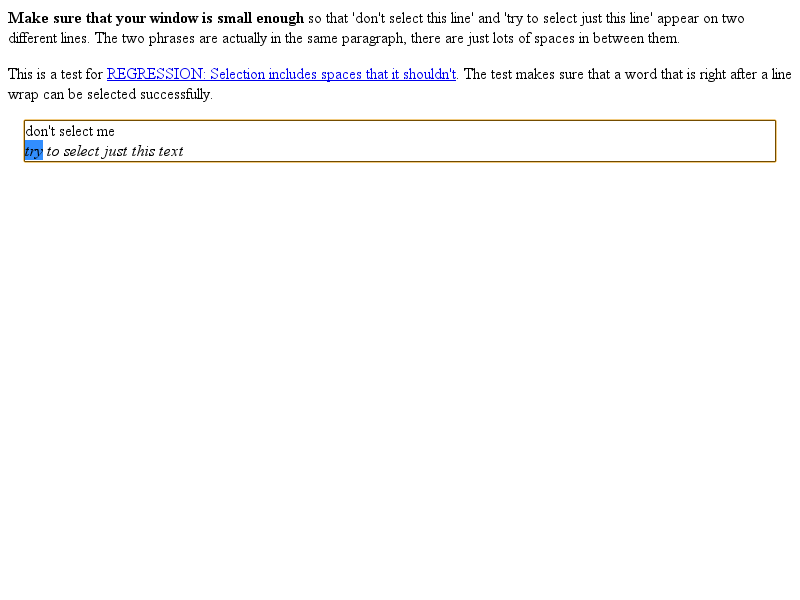
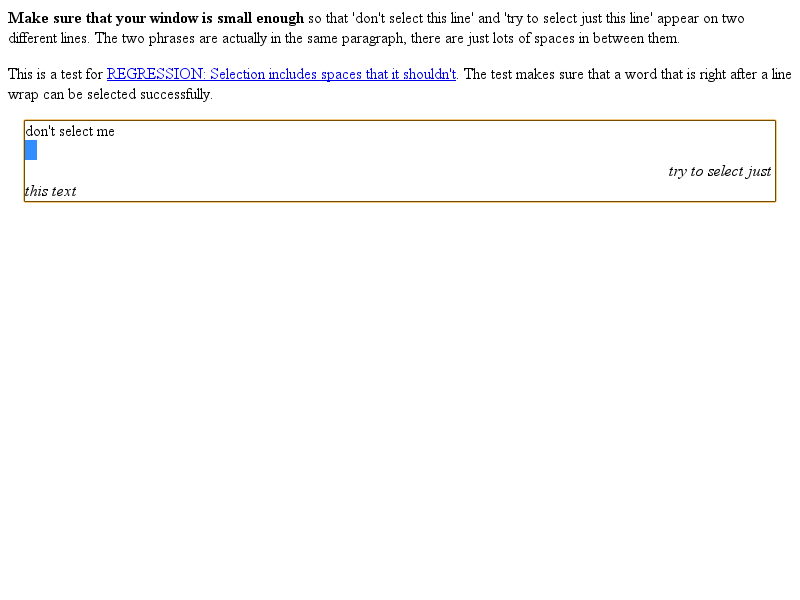
Kill -webkit-nbsp-mode. This is the feature of contentEditable that make it so spaces at the end of a line don't wrap when in editing mode. This is inconsistent with the rendering in non-contentEditable and no other browser implements this behavior.
This behavior is done to match native text editing (e.g. TextEdit), but is a legacy
behavior that we don't need or want.

BUG=227311

Review URL: https://codereview.chromium.org/13749003

Changed region(s): [[0.0312, 0.3, 0.9688, 0.36], [0.0312, 0.24, 0.25, 0.27], [0.8125, 0.27, 0.9688, 0.3]]

diff --git a/Source/WebCore/rendering/RenderBlockLineLayout.cpp b/Source/WebCore/rendering/RenderBlockLineLayout.cpp
@@ -1145,8 +1145,6 @@ static inline bool isCollapsibleSpace(UChar character, RenderText* renderer)
         return true;
     if (character == '\n')
         return !renderer->style()->preserveNewline();
-    if (character == noBreakSpace)
-        return renderer->style()->nbspMode() == SPACE;
     return false;
 }
 
@@ -2287,22 +2285,6 @@ bool RenderBlock::matchedEndLine(LineLayoutState& layoutState, const InlineBidiR
     return false;
 }
 
-static inline bool skipNonBreakingSpace(const InlineIterator& it, const LineInfo& lineInfo)
-{
-    if (it.m_obj->style()->nbspMode() != SPACE || it.current() != noBreakSpace)
-        return false;
-
-    // FIXME: This is bad.  It makes nbsp inconsistent with space and won't work correctly
-    // with m_minWidth/m_maxWidth.
-    // Do not skip a non-breaking space if it is the first character
-    // on a line after a clean line break (or on the first line, since previousLineBrokeCleanly starts off
-    // |true|).
-    if (lineInfo.isEmpty() && lineInfo.previousLineBrokeCleanly())
-        return false;
-
-    return true;
-}
-
 enum WhitespacePosition { LeadingWhitespace, TrailingWhitespace };
 static inline bool shouldCollapseWhiteSpace(const RenderStyle* style, const LineInfo& lineInfo, WhitespacePosition whitespacePosition)
 {
@@ -2345,7 +2327,7 @@ static bool requiresLineBox(const InlineIterator& it, const LineInfo& lineInfo =
         return true;
 
     UChar current = it.current();
-    bool notJustWhitespace = current != ' ' && current != '\t' && current != softHyphen && (current != '\n' || it.m_obj->preservesNewline()) && !skipNonBreakingSpace(it, lineInfo);
+    bool notJustWhitespace = current != ' ' && current != '\t' && current != softHyphen && (current != '\n' || it.m_obj->preservesNewline());
     return notJustWhitespace || isEmptyInline(it.m_obj);
 }
 
@@ -2675,7 +2657,6 @@ InlineIterator RenderBlock::LineBreaker::nextSegmentBreak(InlineBidiResolver& re
     // this to detect when we encounter a second space so we know we have to terminate
     // a run.
     bool currentCharacterIsSpace = false;
-    bool currentCharacterIsWS = false;
     TrailingObjects trailingObjects;
 
     InlineIterator lBreak = resolver.position();
@@ -2812,7 +2793,6 @@ InlineIterator RenderBlock::LineBreaker::nextSegmentBreak(InlineBidiResolver& re
                     // Like with list markers, we start ignoring spaces to make sure that any
                     // additional spaces we see will be discarded.
                     currentCharacterIsSpace = true;
-                    currentCharacterIsWS = true;
                     ignoringSpaces = true;
                 }
             }
@@ -2836,7 +2816,6 @@ InlineIterator RenderBlock::LineBreaker::nextSegmentBreak(InlineBidiResolver& re
             lineInfo.setEmpty(false, m_block, &width);
             ignoringSpaces = false;
             currentCharacterIsSpace = false;
-            currentCharacterIsWS = false;
             trailingObjects.clear();
 
             // Optimize for a common case. If we can't find whitespace after the list
@@ -2847,7 +2826,6 @@ InlineIterator RenderBlock::LineBreaker::nextSegmentBreak(InlineBidiResolver& re
                     // Like with inline flows, we start ignoring spaces to make sure that any
                     // additional spaces we see will be discarded.
                     currentCharacterIsSpace = true;
-                    currentCharacterIsWS = true;
                     ignoringSpaces = true;
                 }
                 if (toRenderListMarker(current.m_obj)->isInside())
@@ -2891,7 +2869,6 @@ InlineIterator RenderBlock::LineBreaker::nextSegmentBreak(InlineBidiResolver& re
 
             float wrapW = width.uncommittedWidth() + inlineLogicalWidth(current.m_obj, !appliedStartWidth, true);
             float charWidth = 0;
-            bool breakNBSP = autoWrap && currentStyle->nbspMode() == SPACE;
             // Auto-wrapping text should wrap in the middle of a word only if it could not wrap before the word,
             // which is only possible if the word is the first thing on the line, that is, if |w| is zero.
             bool breakWords = currentStyle->breakWords() && ((autoWrap && !width.committedWidth()) || currWS == PRE);
@@ -2932,7 +2909,6 @@ InlineIterator RenderBlock::LineBreaker::nextSegmentBreak(InlineBidiResolver& re
             UChar secondToLastCharacter = renderTextInfo.m_lineBreakIterator.secondToLastCharacter();
             for (; current.m_pos < t->textLength(); current.fastIncrementInTextNode()) {
                 bool previousCharacterIsSpace = currentCharacterIsSpace;
-                bool previousCharacterIsWS = currentCharacterIsWS;
                 UChar c = current.current();
                 currentCharacterIsSpace = c == ' ' || c == '\t' || (!preserveNewline && (c == '\n'));
 
@@ -2946,8 +2922,6 @@ InlineIterator RenderBlock::LineBreaker::nextSegmentBreak(InlineBidiResolver& re
 
                 bool applyWordSpacing = false;
 
-                currentCharacterIsWS = currentCharacterIsSpace || (breakNBSP && c == noBreakSpace);
-
                 if ((breakAll || breakWords) && !midWordBreak) {
                     wrapW += charWidth;
                     bool midWordBreakIsBeforeSurrogatePair = U16_IS_LEAD(c) && current.m_pos + 1 < t->textLength() && U16_IS_TRAIL(t->characters()[current.m_pos + 1]);
@@ -2955,7 +2929,7 @@ InlineIterator RenderBlock::LineBreaker::nextSegmentBreak(InlineBidiResolver& re
                     midWordBreak = width.committedWidth() + wrapW + charWidth > width.availableWidth();
                 }
 
-                bool betweenWords = c == '\n' || (currWS != PRE && !atStart && isBreakable(renderTextInfo.m_lineBreakIterator, current.m_pos, current.m_nextBreakablePosition, breakNBSP)
+                bool betweenWords = c == '\n' || (currWS != PRE && !atStart && isBreakable(renderTextInfo.m_lineBreakIterator, current.m_pos, current.m_nextBreakablePosition)
                     && (style->hyphens() != HyphensNone || (current.previousInSameNode() != softHyphen)));
 
                 if (betweenWords || midWordBreak) {
@@ -3006,7 +2980,7 @@ InlineIterator RenderBlock::LineBreaker::nextSegmentBreak(InlineBidiResolver& re
                         // If we break only after white-space, consider the current character
                         // as candidate width for this line.
                         bool lineWasTooWide = false;
-                        if (width.fitsOnLine() && currentCharacterIsWS && currentStyle->breakOnlyAfterWhiteSpace() && !midWordBreak) {
+                        if (width.fitsOnLine() && currentCharacterIsSpace && currentStyle->breakOnlyAfterWhiteSpace() && !midWordBreak) {
                             float charWidth = textWidth(t, current.m_pos, 1, f, width.currentWidth(), isFixedPitch, collapseWhiteSpace, &wordMeasurement.fallbackFonts, textLayout) + (applyWordSpacing ? wordSpacing : 0);
                             // Check if line is too big even without the extra space
                             // at the end of the line. If it is not, do nothing.
@@ -3122,7 +3096,7 @@ InlineIterator RenderBlock::LineBreaker::nextSegmentBreak(InlineBidiResolver& re
                     ignoreStart.m_pos = current.m_pos;
                 }
 
-                if (!currentCharacterIsWS && previousCharacterIsWS) {
+                if (!currentCharacterIsSpace && previousCharacterIsSpace) {
                     if (autoWrap && currentStyle->breakOnlyAfterWhiteSpace())
                         lBreak.moveTo(current.m_obj, current.m_pos, current.m_nextBreakablePosition);
                 }

diff --git a/Source/WebCore/rendering/RenderText.cpp b/Source/WebCore/rendering/RenderText.cpp
@@ -859,11 +859,6 @@ void RenderText::trimmedPrefWidths(float leadWidth,
     }
 }
 
-static inline bool isSpaceAccordingToStyle(UChar c, RenderStyle* style)
-{
-    return c == ' ' || (c == noBreakSpace && style->nbspMode() == SPACE);
-}
-
 float RenderText::minLogicalWidth() const
 {
     if (preferredLogicalWidthsDirty())
@@ -992,7 +987,6 @@ void RenderText::computePreferredLogicalWidths(float leadWidth, HashSet<const Si
 
     int firstGlyphLeftOverflow = -1;
 
-    bool breakNBSP = styleToUse->autoWrap() && styleToUse->nbspMode() == SPACE;
     bool breakAll = (styleToUse->wordBreak() == BreakAllWordBreak || styleToUse->wordBreak() == BreakWordBreak) && styleToUse->autoWrap();
 
     for (int i = 0; i < len; i++) {
@@ -1041,15 +1035,15 @@ void RenderText::computePreferredLogicalWidths(float leadWidth, HashSet<const Si
             continue;
         }
 
-        bool hasBreak = breakAll || isBreakable(breakIterator, i, nextBreakable, breakNBSP);
+        bool hasBreak = breakAll || isBreakable(breakIterator, i, nextBreakable);
         bool betweenWords = true;
         int j = i;
-        while (c != '\n' && !isSpaceAccordingToStyle(c, styleToUse) && c != '\t' && (c != softHyphen || styleToUse->hyphens() == HyphensNone)) {
+        while (c != '\n' && c != ' ' && c != '\t' && (c != softHyphen || styleToUse->hyphens() == HyphensNone)) {
             j++;
             if (j == len)
                 break;
             c = characterAt(j);
-            if (isBreakable(breakIterator, j, nextBreakable, breakNBSP) && characterAt(j - 1) != softHyphen)
+            if (isBreakable(breakIterator, j, nextBreakable) && characterAt(j - 1) != softHyphen)
                 break;
             if (breakAll) {
                 betweenWords = false;
@@ -1059,7 +1053,7 @@ void RenderText::computePreferredLogicalWidths(float leadWidth, HashSet<const Si
 
         int wordLen = j - i;
         if (wordLen) {
-            bool isSpace = (j < len) && isSpaceAccordingToStyle(c, styleToUse);
+            bool isSpace = (j < len) && c == ' ';
             float w;
             if (wordTrailingSpaceWidth && isSpace)
                 w = widthFromCache(f, i, wordLen + 1, leadWidth + currMaxWidth, &fallbackFonts, &glyphOverflow) - wordTrailingSpaceWidth;

diff --git a/Source/WebCore/css/StyleBuilder.cpp b/Source/WebCore/css/StyleBuilder.cpp
@@ -2296,7 +2296,6 @@ StyleBuilder::StyleBuilder()
     setPropertyHandler(CSSPropertyWebkitMaskRepeatX, ApplyPropertyFillLayer<EFillRepeat, CSSPropertyWebkitMaskRepeatX, MaskFillLayer, &RenderStyle::accessMaskLayers, &RenderStyle::maskLayers, &FillLayer::isRepeatXSet, &FillLayer::repeatX, &FillLayer::setRepeatX, &FillLayer::clearRepeatX, &FillLayer::initialFillRepeatX, &CSSToStyleMap::mapFillRepeatX>::createHandler());
     setPropertyHandler(CSSPropertyWebkitMaskRepeatY, ApplyPropertyFillLayer<EFillRepeat, CSSPropertyWebkitMaskRepeatY, MaskFillLayer, &RenderStyle::accessMaskLayers, &RenderStyle::maskLayers, &FillLayer::isRepeatYSet, &FillLayer::repeatY, &FillLayer::setRepeatY, &FillLayer::clearRepeatY, &FillLayer::initialFillRepeatY, &CSSToStyleMap::mapFillRepeatY>::createHandler());
     setPropertyHandler(CSSPropertyWebkitMaskSize, ApplyPropertyFillLayer<FillSize, CSSPropertyWebkitMaskSize, MaskFillLayer, &RenderStyle::accessMaskLayers, &RenderStyle::maskLayers, &FillLayer::isSizeSet, &FillLayer::size, &FillLayer::setSize, &FillLayer::clearSize, &FillLayer::initialFillSize, &CSSToStyleMap::mapFillSize>::createHandler());
-    setPropertyHandler(CSSPropertyWebkitNbspMode, ApplyPropertyDefault<ENBSPMode, &RenderStyle::nbspMode, ENBSPMode, &RenderStyle::setNBSPMode, ENBSPMode, &RenderStyle::initialNBSPMode>::createHandler());
     setPropertyHandler(CSSPropertyWebkitPerspectiveOrigin, ApplyPropertyExpanding<SuppressValue, CSSPropertyWebkitPerspectiveOriginX, CSSPropertyWebkitPerspectiveOriginY>::createHandler());
     setPropertyHandler(CSSPropertyWebkitPerspectiveOriginX, ApplyPropertyLength<&RenderStyle::perspectiveOriginX, &RenderStyle::setPerspectiveOriginX, &RenderStyle::initialPerspectiveOriginX>::createHandler());
     setPropertyHandler(CSSPropertyWebkitPerspectiveOriginY, ApplyPropertyLength<&RenderStyle::perspectiveOriginY, &RenderStyle::setPerspectiveOriginY, &RenderStyle::initialPerspectiveOriginY>::createHandler());

diff --git a/Source/WebCore/rendering/style/RenderStyle.h b/Source/WebCore/rendering/style/RenderStyle.h
@@ -806,7 +806,6 @@ public:
     EMarginCollapse marginAfterCollapse() const { return static_cast<EMarginCollapse>(rareNonInheritedData->marginAfterCollapse); }
     EWordBreak wordBreak() const { return static_cast<EWordBreak>(rareInheritedData->wordBreak); }
     EOverflowWrap overflowWrap() const { return static_cast<EOverflowWrap>(rareInheritedData->overflowWrap); }
-    ENBSPMode nbspMode() const { return static_cast<ENBSPMode>(rareInheritedData->nbspMode); }
     LineBreak lineBreak() const { return static_cast<LineBreak>(rareInheritedData->lineBreak); }
     const AtomicString& highlight() const { return rareInheritedData->highlight; }
     Hyphens hyphens() const { return static_cast<Hyphens>(rareInheritedData->hyphens); }
@@ -1289,7 +1288,6 @@ public:
     void setMarginAfterCollapse(EMarginCollapse c) { SET_VAR(rareNonInheritedData, marginAfterCollapse, c); }
     void setWordBreak(EWordBreak b) { SET_VAR(rareInheritedData, wordBreak, b); }
     void setOverflowWrap(EOverflowWrap b) { SET_VAR(rareInheritedData, overflowWrap, b); }
-    void setNBSPMode(ENBSPMode b) { SET_VAR(rareInheritedData, nbspMode, b); }
     void setLineBreak(LineBreak b) { SET_VAR(rareInheritedData, lineBreak, b); }
     void setHighlight(const AtomicString& h) { SET_VAR(rareInheritedData, highlight, h); }
     void setHyphens(Hyphens h) { SET_VAR(rareInheritedData, hyphens, h); }
@@ -1639,7 +1637,6 @@ public:
     static EMarginCollapse initialMarginAfterCollapse() { return MCOLLAPSE; }
     static EWordBreak initialWordBreak() { return NormalWordBreak; }
     static EOverflowWrap initialOverflowWrap() { return NormalOverflowWrap; }
-    static ENBSPMode initialNBSPMode() { return NBNORMAL; }
     static LineBreak initialLineBreak() { return LineBreakAuto; }
     static const AtomicString& initialHighlight() { return nullAtom; }
     static ESpeak initialSpeak() { return SpeakNormal; }

diff --git a/Source/WebCore/css/CSSParser.cpp b/Source/WebCore/css/CSSParser.cpp
@@ -928,10 +928,6 @@ static inline bool isValidKeywordPropertyAndValue(CSSPropertyID propertyId, int 
         if (valueID == CSSValueNone || valueID == CSSValueSlide || valueID == CSSValueScroll || valueID == CSSValueAlternate)
             return true;
         break;
-    case CSSPropertyWebkitNbspMode: // normal | space
-        if (valueID == CSSValueNormal || valueID == CSSValueSpace)
-            return true;
-        break;
 #if ENABLE(ACCELERATED_OVERFLOW_SCROLLING)
     case CSSPropertyWebkitOverflowScrolling:
         if (valueID == CSSValueAuto || valueID == CSSValueTouch)
@@ -1119,7 +1115,6 @@ static inline bool isKeywordPropertyID(CSSPropertyID propertyId)
     case CSSPropertyWebkitMarginTopCollapse:
     case CSSPropertyWebkitMarqueeDirection:
     case CSSPropertyWebkitMarqueeStyle:
-    case CSSPropertyWebkitNbspMode:
 #if ENABLE(ACCELERATED_OVERFLOW_SCROLLING)
     case CSSPropertyWebkitOverflowScrolling:
 #endif
@@ -2995,7 +2990,6 @@ bool CSSParser::parseValue(CSSPropertyID propId, bool important)
     case CSSPropertyWebkitMarginTopCollapse:
     case CSSPropertyWebkitMarqueeDirection:
     case CSSPropertyWebkitMarqueeStyle:
-    case CSSPropertyWebkitNbspMode:
 #if ENABLE(ACCELERATED_OVERFLOW_SCROLLING)
     case CSSPropertyWebkitOverflowScrolling:
 #endif

diff --git a/Source/WebCore/html/HTMLElement.cpp b/Source/WebCore/html/HTMLElement.cpp
@@ -169,12 +169,10 @@ void HTMLElement::collectStyleForPresentationAttribute(const QualifiedName& name
         if (value.isEmpty() || equalIgnoringCase(value, "true")) {
             addPropertyToPresentationAttributeStyle(style, CSSPropertyWebkitUserModify, CSSValueReadWrite);
             addPropertyToPresentationAttributeStyle(style, CSSPropertyWordWrap, CSSValueBreakWord);
-            addPropertyToPresentationAttributeStyle(style, CSSPropertyWebkitNbspMode, CSSValueSpace);
             addPropertyToPresentationAttributeStyle(style, CSSPropertyWebkitLineBreak, CSSValueAfterWhiteSpace);
         } else if (equalIgnoringCase(value, "plaintext-only")) {
             addPropertyToPresentationAttributeStyle(style, CSSPropertyWebkitUserModify, CSSValueReadWritePlaintextOnly);
             addPropertyToPresentationAttributeStyle(style, CSSPropertyWordWrap, CSSValueBreakWord);
-            addPropertyToPresentationAttributeStyle(style, CSSPropertyWebkitNbspMode, CSSValueSpace);
             addPropertyToPresentationAttributeStyle(style, CSSPropertyWebkitLineBreak, CSSValueAfterWhiteSpace);
         } else if (equalIgnoringCase(value, "false"))
             addPropertyToPresentationAttributeStyle(style, CSSPropertyWebkitUserModify, CSSValueReadOnly);

diff --git a/Source/WebCore/rendering/style/StyleRareInheritedData.cpp b/Source/WebCore/rendering/style/StyleRareInheritedData.cpp
@@ -74,7 +74,6 @@ StyleRareInheritedData::StyleRareInheritedData()
     , userModify(READ_ONLY)
     , wordBreak(RenderStyle::initialWordBreak())
     , overflowWrap(RenderStyle::initialOverflowWrap())
-    , nbspMode(NBNORMAL)
     , lineBreak(LineBreakAuto)
     , resize(RenderStyle::initialResize())
     , userSelect(RenderStyle::initialUserSelect())
@@ -145,7 +144,6 @@ StyleRareInheritedData::StyleRareInheritedData(const StyleRareInheritedData& o)
     , userModify(o.userModify)
     , wordBreak(o.wordBreak)
     , overflowWrap(o.overflowWrap)
-    , nbspMode(o.nbspMode)
     , lineBreak(o.lineBreak)
     , resize(o.resize)
     , userSelect(o.userSelect)
@@ -234,7 +232,6 @@ bool StyleRareInheritedData::operator==(const StyleRareInheritedData& o) const
         && userModify == o.userModify
         && wordBreak == o.wordBreak
         && overflowWrap == o.overflowWrap
-        && nbspMode == o.nbspMode
         && lineBreak == o.lineBreak
 #if ENABLE(ACCELERATED_OVERFLOW_SCROLLING)
         && useTouchOverflowScrolling == o.useTouchOverflowScrolling

diff --git a/Source/WebCore/css/CSSComputedStyleDeclaration.cpp b/Source/WebCore/css/CSSComputedStyleDeclaration.cpp
@@ -320,7 +320,6 @@ static const CSSPropertyID computedProperties[] = {
     CSSPropertyWebkitMaskPosition,
     CSSPropertyWebkitMaskRepeat,
     CSSPropertyWebkitMaskSize,
-    CSSPropertyWebkitNbspMode,
     CSSPropertyWebkitOrder,
 #if ENABLE(ACCELERATED_OVERFLOW_SCROLLING)
     CSSPropertyWebkitOverflowScrolling,
@@ -2265,8 +2264,6 @@ PassRefPtr<CSSValue> CSSComputedStyleDeclaration::getPropertyCSSValue(CSSPropert
             return cssValuePool().createValue(style->overflowWrap());
         case CSSPropertyWebkitLineBreak:
             return cssValuePool().createValue(style->lineBreak());
-        case CSSPropertyWebkitNbspMode:
-            return cssValuePool().createValue(style->nbspMode());
         case CSSPropertyResize:
             return cssValuePool().createValue(style->resize());
         case CSSPropertyWebkitFontKerning:

diff --git a/Source/WebCore/css/CSSPrimitiveValueMappings.h b/Source/WebCore/css/CSSPrimitiveValueMappings.h
@@ -2023,33 +2023,6 @@ template<> inline CSSPrimitiveValue::operator EMarqueeDirection() const
     return MAUTO;
 }
 
-template<> inline CSSPrimitiveValue::CSSPrimitiveValue(ENBSPMode e)
-    : CSSValue(PrimitiveClass)
-{
-    m_primitiveUnitType = CSS_IDENT;
-    switch (e) {
-        case NBNORMAL:
-            m_value.ident = CSSValueNormal;
-            break;
-        case SPACE:
-            m_value.ident = CSSValueSpace;
-            break;
-    }
-}
-
-template<> inline CSSPrimitiveValue::operator ENBSPMode() const
-{
-    switch (m_value.ident) {
-        case CSSValueSpace:
-            return SPACE;
-        case CSSValueNormal:
-            return NBNORMAL;
-    }
-
-    ASSERT_NOT_REACHED();
-    return NBNORMAL;
-}
-
 template<> inline CSSPrimitiveValue::CSSPrimitiveValue(EOverflow e)
     : CSSValue(PrimitiveClass)
 {

diff --git a/Source/WebCore/rendering/break_lines.h b/Source/WebCore/rendering/break_lines.h
@@ -28,16 +28,11 @@ namespace WebCore {
 class LazyLineBreakIterator;
 
 int nextBreakablePositionIgnoringNBSP(LazyLineBreakIterator&, int pos);
-int nextBreakablePosition(LazyLineBreakIterator&, int pos);
 
-inline bool isBreakable(LazyLineBreakIterator& lazyBreakIterator, int pos, int& nextBreakable, bool breakNBSP)
+inline bool isBreakable(LazyLineBreakIterator& lazyBreakIterator, int pos, int& nextBreakable)
 {
-    if (pos > nextBreakable) {
-        if (breakNBSP)
-            nextBreakable = nextBreakablePosition(lazyBreakIterator, pos);
-        else
-            nextBreakable = nextBreakablePositionIgnoringNBSP(lazyBreakIterator, pos);
-    }
+    if (pos > nextBreakable)
+        nextBreakable = nextBreakablePositionIgnoringNBSP(lazyBreakIterator, pos);
     return pos == nextBreakable;
 }
 

diff --git a/Source/WebCore/rendering/style/RenderStyle.cpp b/Source/WebCore/rendering/style/RenderStyle.cpp
@@ -482,7 +482,6 @@ StyleDifference RenderStyle::diff(const RenderStyle* other, unsigned& changedCon
             || rareInheritedData->m_effectiveZoom != other->rareInheritedData->m_effectiveZoom
             || rareInheritedData->wordBreak != other->rareInheritedData->wordBreak
             || rareInheritedData->overflowWrap != other->rareInheritedData->overflowWrap
-            || rareInheritedData->nbspMode != other->rareInheritedData->nbspMode
             || rareInheritedData->lineBreak != other->rareInheritedData->lineBreak
             || rareInheritedData->textSecurity != other->rareInheritedData->textSecurity
             || rareInheritedData->hyphens != other->rareInheritedData->hyphens

diff --git a/Source/WebCore/rendering/break_lines.cpp b/Source/WebCore/rendering/break_lines.cpp
@@ -186,12 +186,4 @@ int nextBreakablePositionIgnoringNBSP(LazyLineBreakIterator& lazyBreakIterator, 
     return nextBreakablePosition<UChar, false>(lazyBreakIterator, string.characters16(), string.length(), pos);
 }
 
-int nextBreakablePosition(LazyLineBreakIterator& lazyBreakIterator, int pos)
-{
-    String string = lazyBreakIterator.string();
-    if (string.is8Bit())
-        return nextBreakablePosition<LChar, true>(lazyBreakIterator, string.characters8(), string.length(), pos);
-    return nextBreakablePosition<UChar, true>(lazyBreakIterator, string.characters16(), string.length(), pos);
-}
-
 } // namespace WebCore
